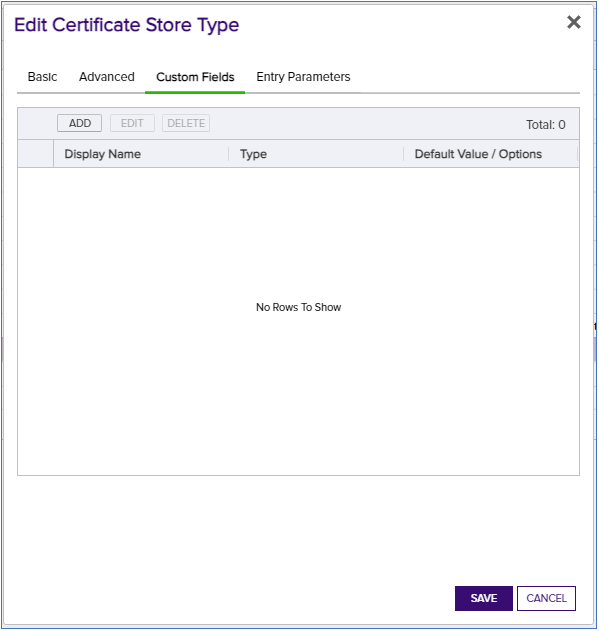
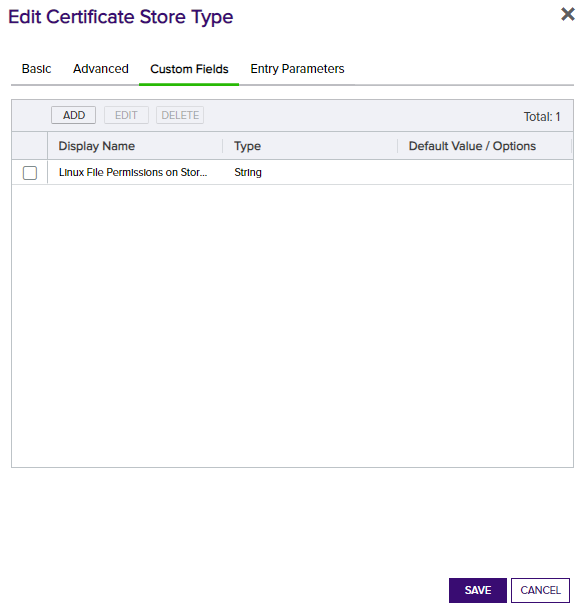
Linux permissions winrm credentials (#42) (#43)

Changed region(s): [[0.0, 0.0, 1.0, 1.0], [0.4345, 0.4627, 0.5897, 0.4935]]

diff --git a/JavaKeyStoreSSH/JKSStore.cs b/JavaKeyStoreSSH/JKSStore.cs
@@ -20,6 +20,7 @@ namespace Keyfactor.Extensions.Orchestrator.JavaKeyStoreSSH
 {
     internal class JKSStore
     {
+        private const string LINUX_PERMISSION_REGEXP = "^[0-7]{3}$";
         private const string NO_EXTENSION = "noext";
         private const string FULL_SCAN = "fullscan";
 
@@ -81,7 +82,7 @@ namespace Keyfactor.Extensions.Orchestrator.JavaKeyStoreSSH
                 SSH = new SSHHandler(Server, ServerId, ServerPassword);
                 //SSH = new SSHHandler(Server, ServerId, PamUtility.ResolvePassword(ServerPassword));
             else
-                SSH = new WinRMHandler(Server);
+                SSH = new WinRMHandler(Server, ServerId, ServerPassword);
 
             try
             {
@@ -251,12 +252,17 @@ namespace Keyfactor.Extensions.Orchestrator.JavaKeyStoreSSH
             }
         }
 
-        internal void CreateCertificateStore(string storePath, string storePassword)
+        internal void CreateCertificateStore(string storePath, string storePassword, string linuxFilePermissions)
         {
             //No option to create a blank store.  Generate a self signed cert with some default and limited validity.
+            AreLinuxPermissionsValid(linuxFilePermissions);
+
             string keyToolCommand = $"{KeytoolPath}keytool -genkeypair -keystore {storePath} -storepass '{storePassword}' -dname \"cn=New Certificate Store\" -validity 1 -alias \"NewCertStore\"";
             SSH.RunCommand(keyToolCommand, null, ServerType == ServerTypeEnum.Linux && ApplicationSettings.UseSudo, StorePassword == null ? null : new string[] { StorePassword });
             DeleteCertificateByAlias("NewCertStore");
+
+            if (ServerType == ServerTypeEnum.Linux)
+                SSH.RunCommand($"chmod {linuxFilePermissions} {storePath}", null, ApplicationSettings.UseSudo, null);
         }
 
         internal void AddCertificateToStore(string alias, byte[] certBytes, bool overwrite)
@@ -283,6 +289,13 @@ namespace Keyfactor.Extensions.Orchestrator.JavaKeyStoreSSH
             string keyToolCommand = ServerType == ServerTypeEnum.Linux ? $"which keytool" : "java -version 2>&1";
             string result = SSH.RunCommand(keyToolCommand, null, ServerType == ServerTypeEnum.Linux && ApplicationSettings.UseSudo, null);
             return !(string.IsNullOrEmpty(result));
+        }
+
+        private static void AreLinuxPermissionsValid(string permissions)
+        {
+            Regex regex = new Regex(LINUX_PERMISSION_REGEXP);
+            if (!regex.IsMatch(permissions))
+                throw new JKSException($"Invalid format for Linux file permissions.  This value must be exactly 3 digits long with each digit between 0-7 but found {permissions} instead.");
         }
 
         private List<string> FindStoresLinux(string[] paths, string[] extensions, string[] fileNames)

diff --git a/JavaKeyStoreSSH/Management.cs b/JavaKeyStoreSSH/Management.cs
@@ -78,7 +78,13 @@ namespace Keyfactor.Extensions.Orchestrator.JavaKeyStoreSSH
                             logger.LogDebug($"Certificate store {config.CertificateStoreDetails.StorePath} on {config.CertificateStoreDetails.ClientMachine} already exists.  No action necessary.");
                             break;
                         }
-                        jksStore.CreateCertificateStore(config.CertificateStoreDetails.StorePath, config.CertificateStoreDetails.StorePassword);
+
+                        dynamic properties = JsonConvert.DeserializeObject(config.CertificateStoreDetails.Properties.ToString());
+                        string linuxFilePermissions = properties.linuxFilePermissionsOnStoreCreation == null || string.IsNullOrEmpty(properties.linuxFilePermissionsOnStoreCreation.Value) ?
+                            ApplicationSettings.DefaultLinuxPermissionsOnStoreCreation :
+                            properties.linuxFilePermissionsOnStoreCreation.Value;
+
+                        jksStore.CreateCertificateStore(config.CertificateStoreDetails.StorePath, config.CertificateStoreDetails.StorePassword, linuxFilePermissions);
                         break; 
                     default:
                         return new JobResult() { Result = OrchestratorJobStatusJobResult.Failure, JobHistoryId = config.JobHistoryId, FailureMessage = $"Site {config.CertificateStoreDetails.StorePath} on server {config.CertificateStoreDetails.ClientMachine}: Unsupported operation: {config.OperationType.ToString()}" };

diff --git a/JavaKeyStoreSSH/RemoteHandlers/WinRMHandler.cs b/JavaKeyStoreSSH/RemoteHandlers/WinRMHandler.cs
@@ -9,6 +9,7 @@ using System;
 using System.Collections.Generic;
 using System.Management.Automation;
 using System.Management.Automation.Runspaces;
+using System.Net;
 using System.Text;
 
 using Microsoft.Extensions.Logging;
@@ -22,17 +23,22 @@ namespace Keyfactor.Extensions.Orchestrator.JavaKeyStoreSSH.RemoteHandlers
         private const string IGNORED_ERROR3 = "certificate was added to keystore";
 
         private Runspace runspace { get; set; }
+        private WSManConnectionInfo connectionInfo { get; set; }
 
-        internal WinRMHandler(string server)
+        internal WinRMHandler(string server, string serverLogin, string serverPassword)
         {
             Server = server;
+            connectionInfo = new WSManConnectionInfo(new System.Uri($"{Server}/wsman"));
+            if (!string.IsNullOrEmpty(serverLogin))
+            {
+                connectionInfo.Credential = new PSCredential(serverLogin, new NetworkCredential(serverLogin, serverPassword).SecurePassword);
+            }
         }
 
         public override void Initialize()
         {
             try
             {
-                WSManConnectionInfo connectionInfo = new WSManConnectionInfo(new System.Uri($"{Server}/wsman"));
                 if (ApplicationSettings.UseNegotiateAuth)
                 {
                     connectionInfo.AuthenticationMechanism = AuthenticationMechanism.Negotiate;

diff --git a/JavaKeyStoreSSH/ApplicationSettings.cs b/JavaKeyStoreSSH/ApplicationSettings.cs
@@ -6,7 +6,6 @@
 // and limitations under the License.
 
 using System.IO;
-using System.Text;
 
 using Newtonsoft.Json;
 
@@ -24,6 +23,9 @@ namespace Keyfactor.Extensions.Orchestrator.JavaKeyStoreSSH
         public static bool FindKeytoolPathOnWindows { get; set; }
         public static bool UseNegotiateAuth { get; set; }
         public static bool UseSCP { get; set; }
+        public static string DefaultLinuxPermissionsOnStoreCreation { get; set; }
+
+        private const string DEFAULT_LINUX_PERMISSION_SETTING = "600";
 
         public static void Initialize(string currLocation)
         {
@@ -40,6 +42,8 @@ namespace Keyfactor.Extensions.Orchestrator.JavaKeyStoreSSH
 
             dynamic jsonContents = JsonConvert.DeserializeObject(configContents);
 
+            DefaultLinuxPermissionsOnStoreCreation = jsonContents.DefaultLinuxPermissionsOnStoreCreation == null ? DEFAULT_LINUX_PERMISSION_SETTING : jsonContents.DefaultLinuxPermissionsOnStoreCreation.Value;
+            
             ValidateConfig(jsonContents);
 
             UseSudo = jsonContents.UseSudo.Value.Equals("Y", System.StringComparison.OrdinalIgnoreCase);

diff --git a/README.md b/README.md
@@ -59,12 +59,14 @@ In Keyfactor Command create a new Certificate Store Type similar to the one belo
 ![](Images/Image1a.png)
 ![](Images/Image1b.png)
 ![](Images/Image1c.png)
+![](Images/Image1e.png)
 ![](Images/Image1d.png)
 
 - **Name** – Required. The display name of the new Certificate Store Type
 - **Short Name** – Required. Similar to **Name**.  A shorter display value.
 - **Custom Capability** - Required.  **Must** be JKS-SSH.  **NOTE:** If not adding this manually but rather upgrading to Keyfactor 9 with this being an existing store type, the Short Name of JKS-SSH from the previous store type will be moved to this field.  It will not show up as checked and the value will not be shown, but as long as the **Short Name** shows as JKS-SSH, this will be correct.
 - **Supported Job Types, General Settings, Password Settings, Store Path Types, and Other Settings** – All checked/unchecked as shown
+- **Linux File Permissions on Store Creation** - Optional.  Overrides the optional config.json DefaultLinuxPermissionsOnStoreCreation setting (see section 4 below) for a specific certificate store.  This value will set the file permissions (Linux only) of a new certificate store created via a Management-Create job.  If this parameter is not added or added but not set, the permissions used will be derived from the DefaultLinuxPermissionsOnStoreCreation setting.
 - **Entry Parameters** - Set to "entryPassword" to allow users when enrolling a new certificate with certificate store delivery or adding an existing certificate to a store to specify a separate password from the certificate store password to be used as the key password for that entry.  If this field is left blank when adding a certificate to a store, the store password will be used for the key password.  You can optionally omit setting this field up on the Certificate Store Type set up screen.  In this case the key password will ALWAYS be set to the store password.
 
 **2. Create the proper Extension folder and move the installation binaries to this location**
@@ -87,11 +89,13 @@ If you choose to manually create a Java Keystore store In Keyfactor Command rath
   
   - PAM provider information to pass the UserId/Password or UserId/SSH private key credentials
   
-  When setting up a Windows server, the format of the machine name must be – [http://_ServerName_:5985](http://ServerName:5985/), where "5985" is the WinRM port number. 5985 is the standard, but if your organization uses a different, use that.  The credentials used will be the Keyfactor Command service account.  Because of this, for Windows orchestrated servers, setting an additional set of credentials is not necessary.  **However, it is required that the *Change Credentials* link still be clicked on and the resulting dialog closed by clicking OK.**
+  When setting up a Windows server, the format of the machine name must be – http://ServerName:5985, where &quot;5985&quot; is the WinRM port number. 5985 is the standard, but if your organization uses a different port, use that.  The Keyfactor Command service account will be used if the credentials are left blank.  **However, if you choose to not enter credentials and use the Keyfactor Command service account, it is required that the *Change Credentials* link still be clicked on and the resulting dialog closed by clicking OK.**
+
   
 - **Store Path** – Required. The FULL PATH and file name of the Java Keystore being managed. File paths on Linux servers will always begin with a "/". Windows servers will always begin with the drive letter, colon, and backslash, such as "c:\\".  Valid characters for Linux store paths include any alphanumeric character, space, forward slash, hyphen, underscore, and period. For Windows servers, the aforementioned characters as well as a colon and backslash.
 - **Orchestrator** – Select the orchestrator you wish to use to manage this store
-- **Store Password** – Set the store password for the Java Keystore
+- **Store Password** – Required.  Set the store password for the Java Keystore
+- **Linux File Permissions on Store Creation** - Optional (Linux only). Set the Linux file permissions you wish to be set when creating a new physical certificate store via checking Create Certificate Store above.  This value must be 3 digits all betwwen 0-7.
 - **Inventory Schedule** – Set a schedule for running Inventory jobs or none, if you choose not to schedule Inventory at this time.
 
 **3b. (Optional) Schedule a Java Keystore Discovery Job**
@@ -112,7 +116,7 @@ First, in Keyfactor Command navigate to Certificate Locations =\> Certificate St
 
   - PAM provider information to pass the UserId/Password or UserId/SSH private key credentials
 
-  When setting up a Windows server, the format of the machine name must be – [http://_ServerName_:5985](http://ServerName:5985/), where "5985" is the WinRM port number. 5985 is the standard, but if your organization uses a different, use that.  The credentials used will be the Keyfactor Command service account.  Because of this, for Windows orchestrated servers, setting an additional set of credentials is not necessary.  **However, it is required that the *Change Credentials* link still be clicked on and the resulting dialog closed by clicking OK.**
+  When setting up a Windows server, the format of the machine name must be – http://ServerName:5985, where &quot;5985&quot; is the WinRM port number. 5985 is the standard, but if your organization uses a different, use that.  The credentials used will be the Keyfactor Command service account.  Because of this, for Windows orchestrated servers, setting an additional set of credentials is not necessary.  **However, it is required that the *Change Credentials* link still be clicked on and the resulting dialog closed by clicking OK.**
 - **When** – Required. The date and time when you would like this to execute.
 - **Directories to search** – Required. A comma delimited list of the FULL PATHs and file names where you would like to recursively search for Java Keystores. File paths on Linux servers will always begin with a "/". Windows servers will always begin with the drive letter, colon, and backslash, such as "c:\\".  Entering the string "fullscan" when Discovering against a Windows server will automatically do a recursive search on ALL local drives on the server.
 - **Directories to ignore** – Optional. A comma delimited list of the FULL PATHs that should be recursively ignored when searching for Java Keystores. Linux file paths will always begin with a "/". Windows servers will always begin with the drive letter, colon, and backslash, such as "c:\\".
@@ -147,7 +151,9 @@ As a configuration step, you must modify the config.json file, found in the plug
 
 "UseNegotiateAuth": "N",
 
-"UseSCP": "N"
+"UseSCP": "N",
+
+"DefaultLinuxPermissionsOnStoreCreation": "600"
 
 }
 
@@ -170,6 +176,8 @@ Modify the six values as appropriate (all must be present regardless of Linux or
 **UseNegotiateAuth** (Windows only) – Y/N - Determines if WinRM should use Negotiate (Y) when connecting to the remote server.
 
 **UseSCP** (Optional, Linux only) - Y/N - Detemines if SCP (Y) or SFTP (N) should be used in uploading certificate files during Management-Add jobs
+
+**DefaultLinuxPermissionsOnStoreCreation** (Linux only) - Optional.  Value must be 3 digits all between 0-7.  The Linux file permissions that will be set on a new certificate store created via a Management Create job.  This value will be used for all certificate stores managed by this orchestrator instance unless overridden by the optional "Linux File Permissions on Store Creation" custom parameter setting on a specific certificate store.  If "Linux File Permissions on Store Creation" and DefaultLinuxPermissionsOnStoreCreation are not set, a default permission of 600 will be used.
 
 Json format that MUST be returned by script identified in **PreRunScript** if **UsePrerunScript** is set to "Y":
 

diff --git a/CHANGELOG.md b/CHANGELOG.md
@@ -1,3 +1,8 @@
+v2.4
+- Add new config.json setting DefaultLinuxPermissionsOnStoreCreation, and certificate store type custom parameter linuxFilePermissionsOnStoreCreation
+- Add ability to use client machine credentials for WinRM Windows servers rather than always using the Keyfactor service account 
+
+
 v2.3
 - Limit the valid characters that can be used for store paths to protect against command injection.
 
